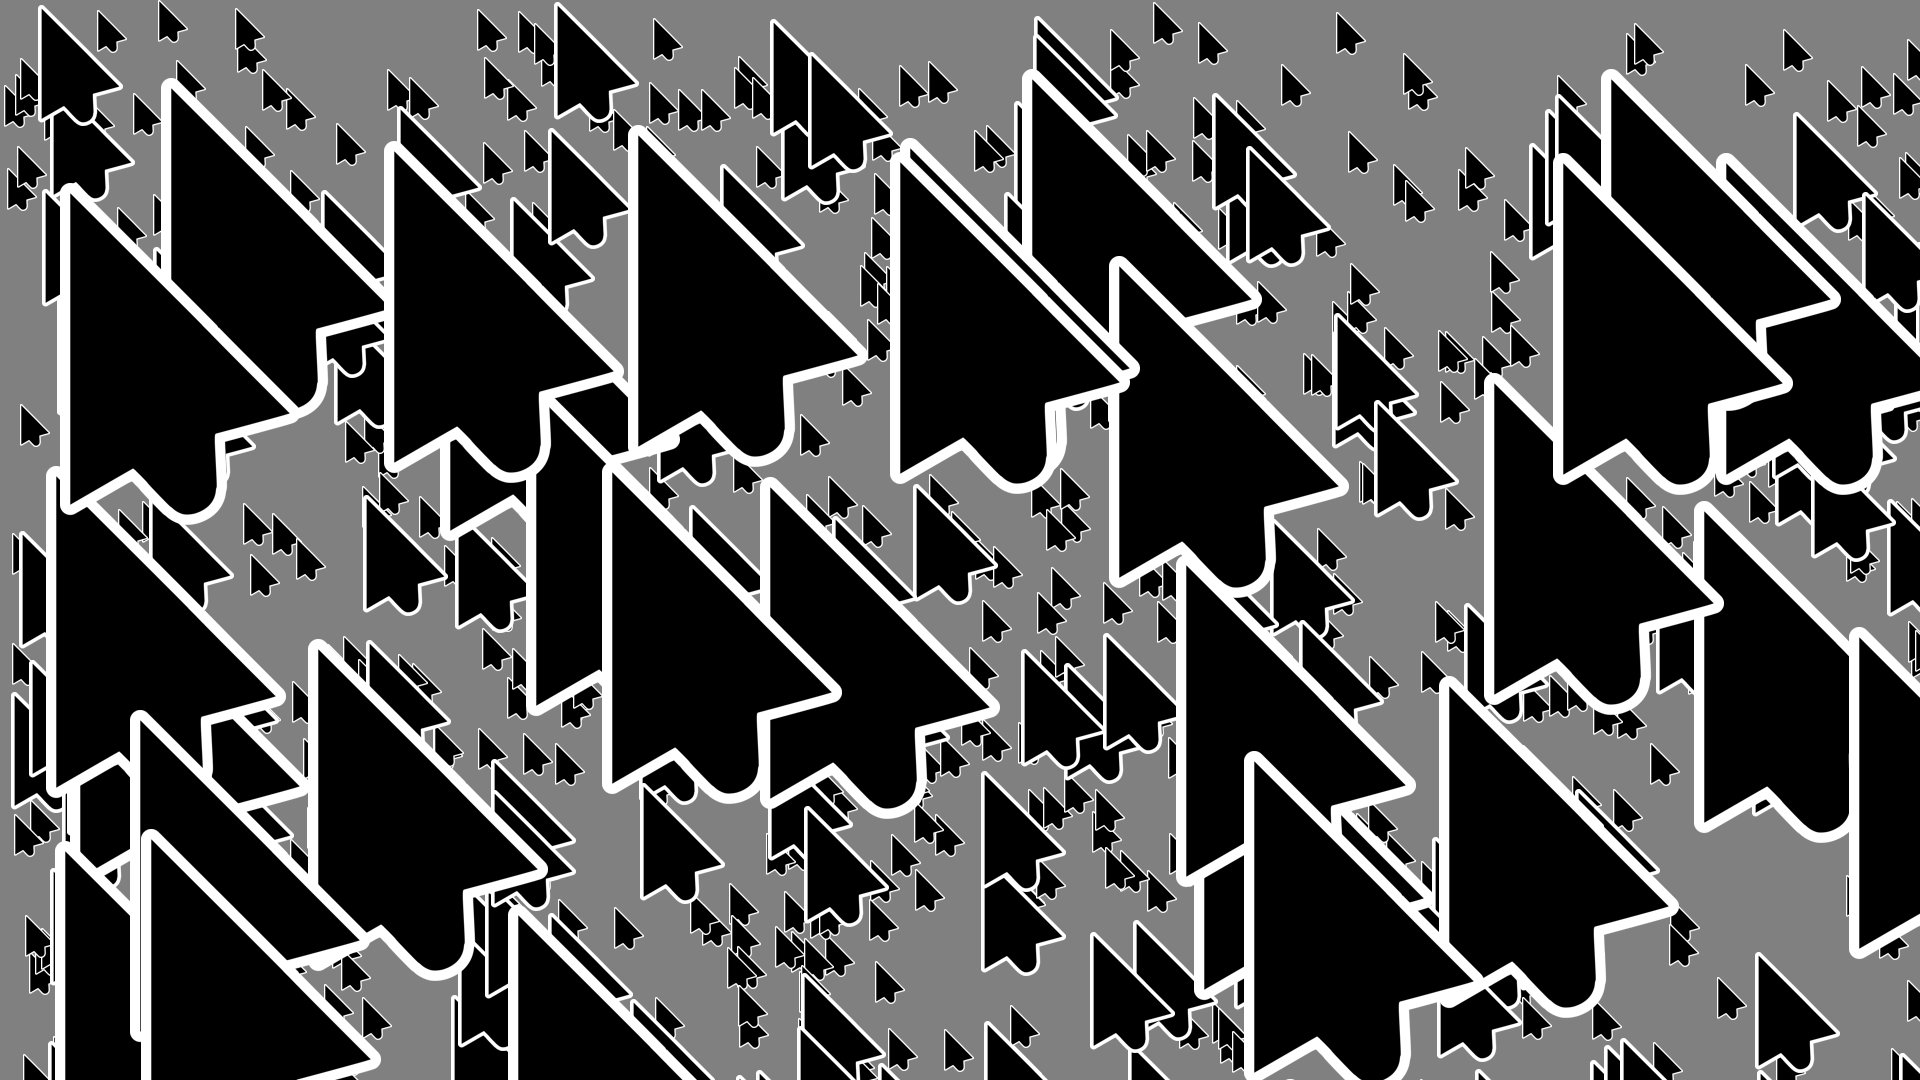
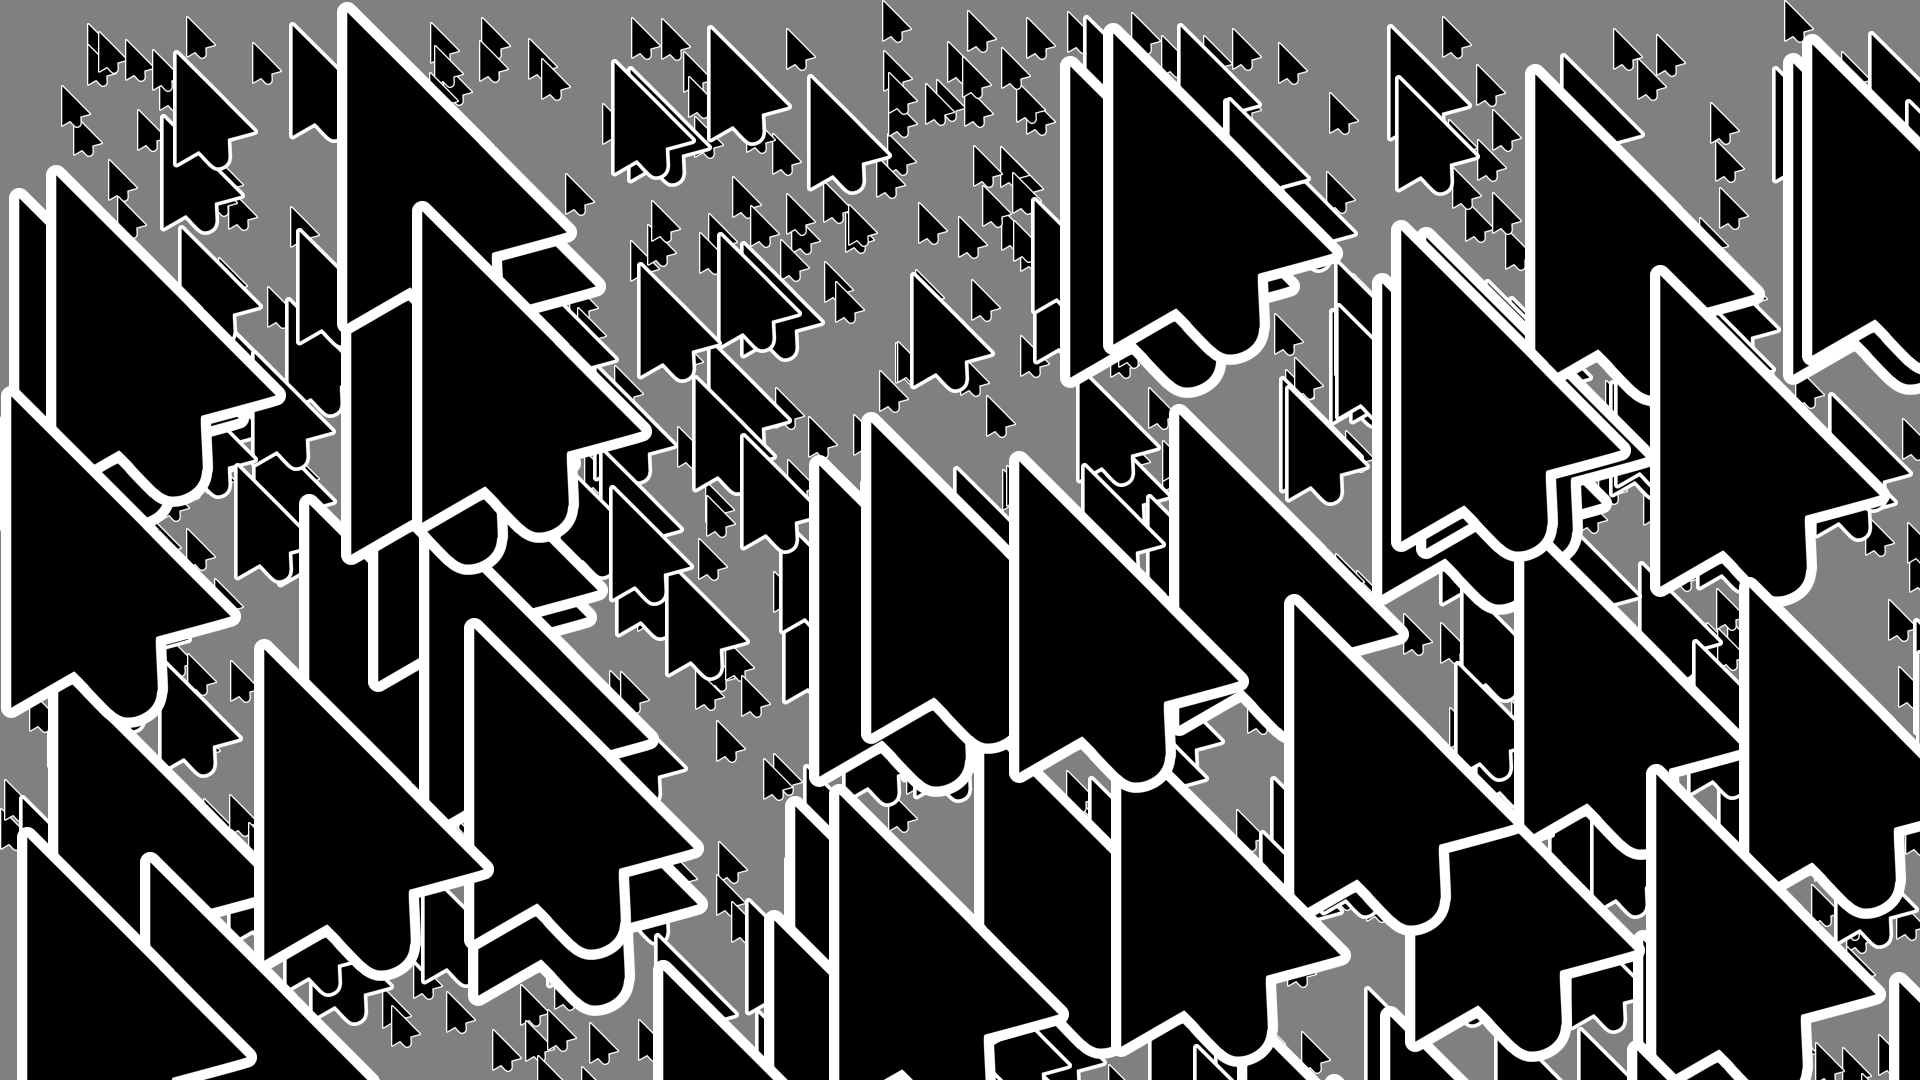
feat:increase_density

diff --git a/random_cursor_image/img_creator.py b/random_cursor_image/img_creator.py
@@ -11,7 +11,7 @@ DIRNOW = os.path.dirname(os.path.abspath(__file__))
 BACKGROUND_COLOR   = (128, 128, 128, 0xff)
 SMALL_CURSOR_CNT   = 600
 SMALL_CURSOR_SIZE  = 30
-LARGE_CURSOR_CNT   = 30
+LARGE_CURSOR_CNT   = 50
 LARGE_CURSOR_SIZE  = 240
 MEDIUM_CURSOR_CNT  = round(math.sqrt(SMALL_CURSOR_CNT  * LARGE_CURSOR_CNT))
 MEDIUM_CURSOR_SIZE = round(math.sqrt(SMALL_CURSOR_SIZE * LARGE_CURSOR_SIZE))
